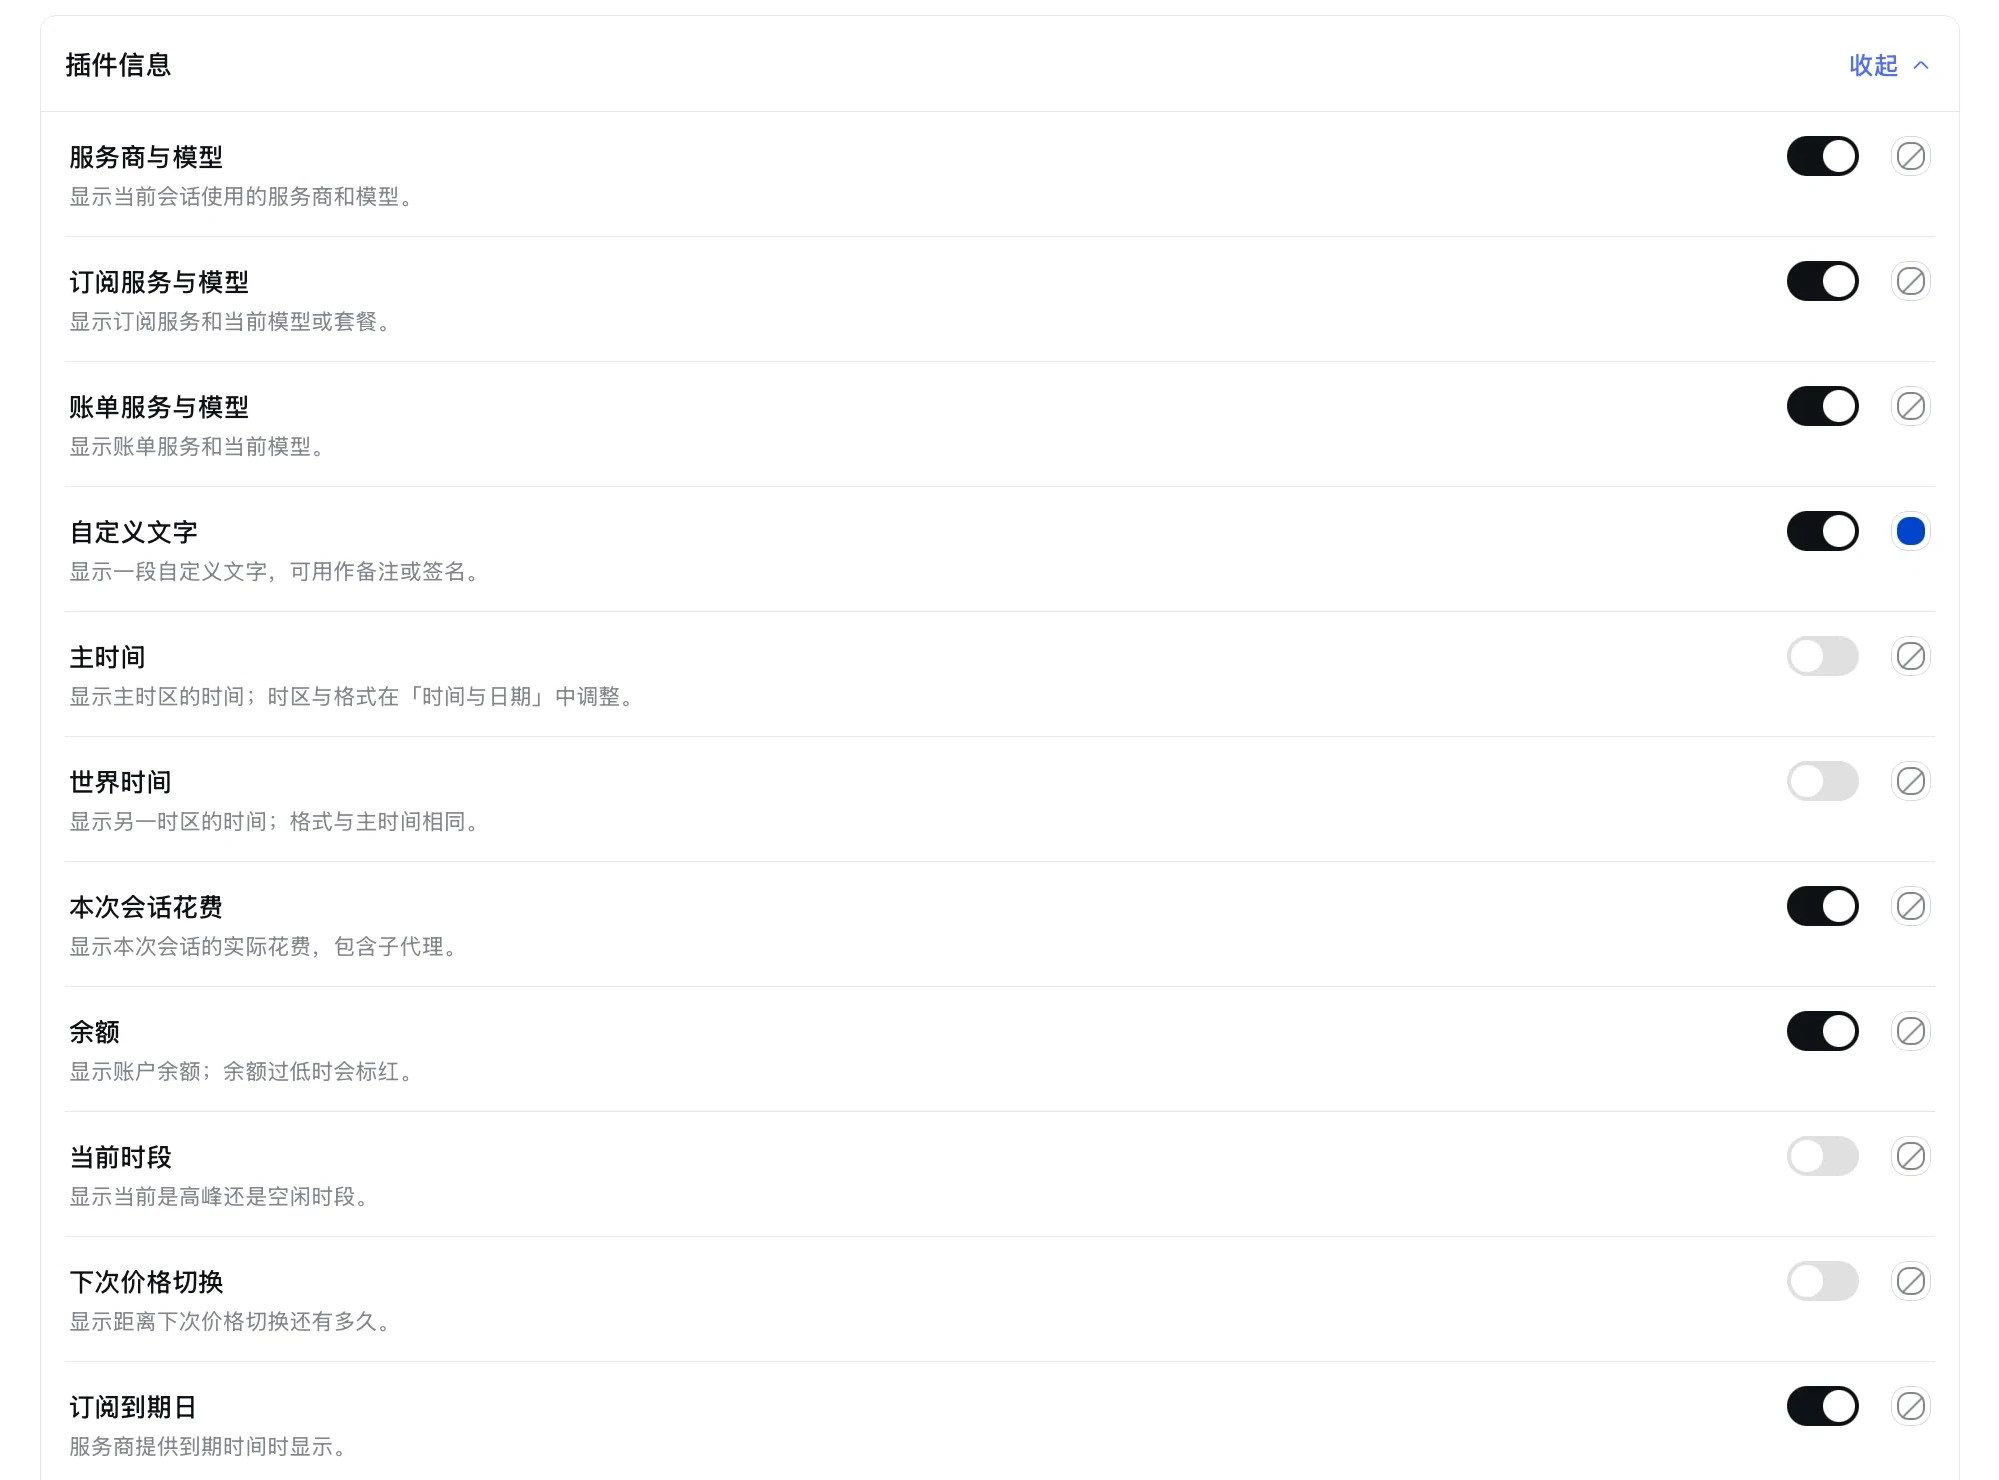
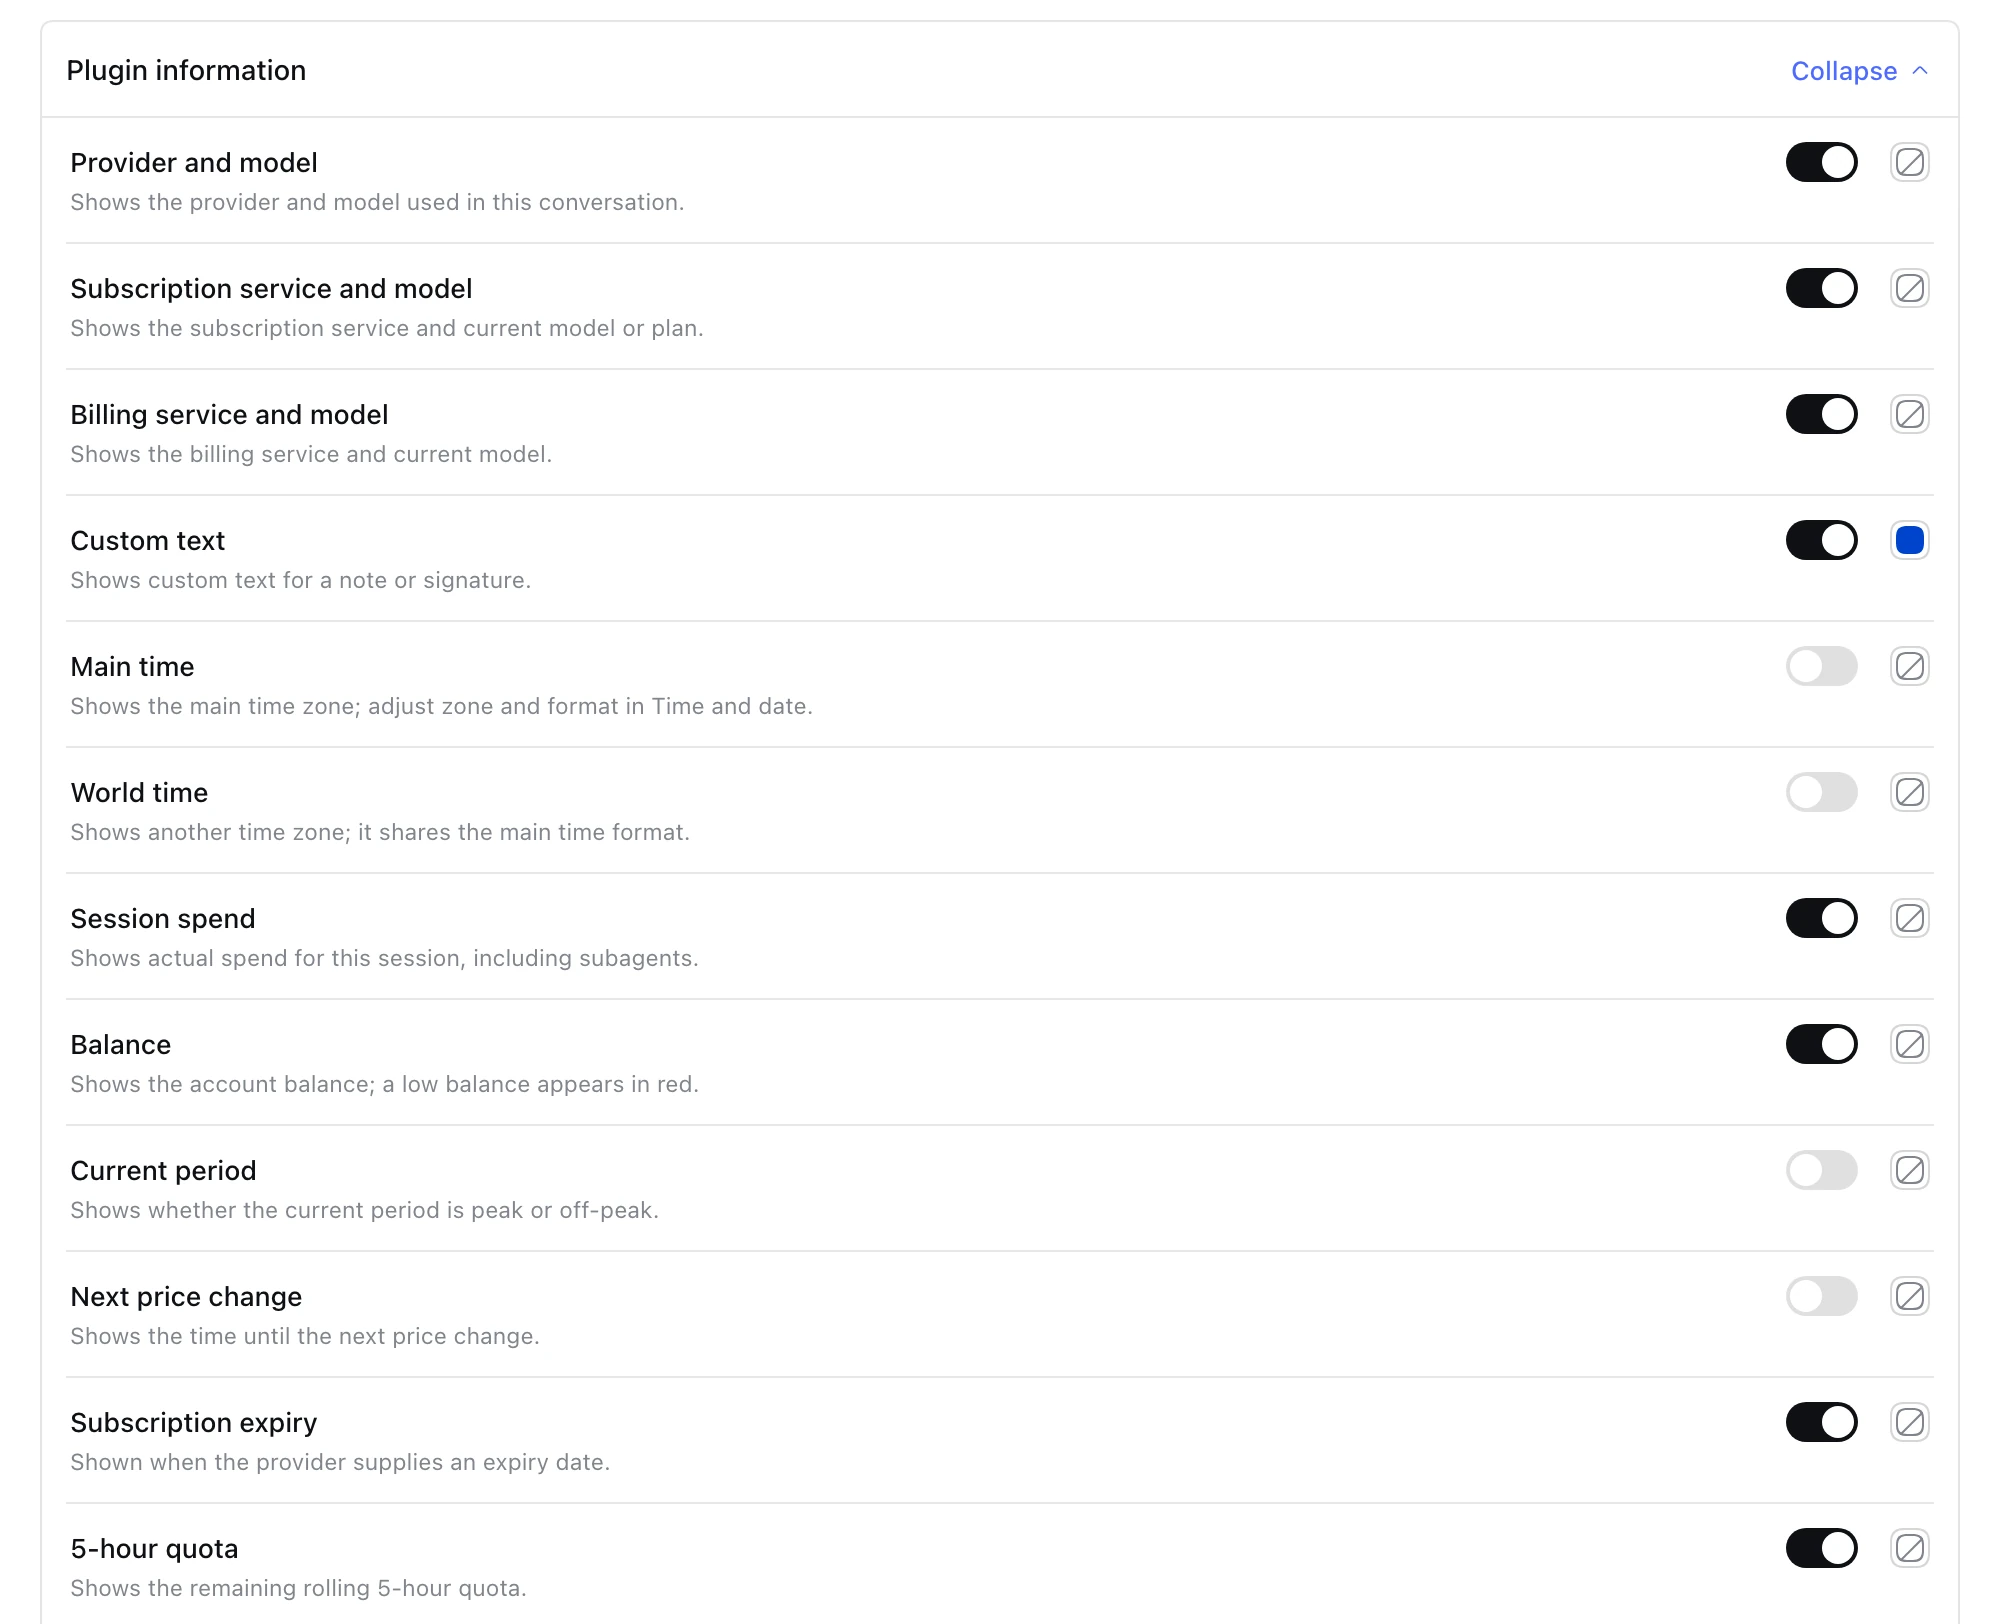
docs: give each README screenshots in its own language
README.md and README.zh-CN.md shared one set of screenshots, so one of the two
always showed the other language's UI. Both READMEs now carry their own.

- assets/*.webp stay the English set (README.md); assets/*.zh-CN.webp are the
  Chinese set (README.zh-CN.md): plugin page, native field group, plugin field
  group and the installed-plugins list
- all eight are fresh captures of the running v1.14.4 page, cropped from
  measured element geometry so the two sets frame identically
- plugins-installed.* also fixes stale content: the old image still showed four
  plugins, including song-search and opencode-session, which are long gone
- MEMORY.md records the capture pipeline, the locale-flip procedure and the
  naming convention

diff --git a/MEMORY.md b/MEMORY.md
@@ -18,13 +18,22 @@
 
 ## 2026-09-23
 
+### README 截图适配中英双语（纯 docs，不触发发版）
+
+- 约定（本次定型）：`assets/` 里**无语言后缀 = 英文界面**（`README.md` 用），**`.zh-CN.webp` = 中文界面**（`README.zh-CN.md` 用）。设置页三张 + 插件列表一张都已双语；`info-bar-full/compact.webp` 仍只有英文版。
+- 采集管线（可复用，只读用户设置）：Playwright（`/Users/songsong/code/brickindex/node_modules/playwright`）+ 本机跑着的 `dsh web`；鉴权 URL 取 `~/.dsh/logs/dhs-web.log` 里**最后一条** `?token=`（token 是机密，不打印、不落盘）。`viewport 1440x1800 / deviceScaleFactor 2 / colorScheme light`；进插件页：侧栏 `button.hHd-Xa_panelRow`（插件|Plugins）→ `button.X_2TxG_cardTitle`（hasText `dsh-bottom-info-bar`）。分组 = `.bib-set-group`（0=原生、1=插件），展开态 `.bib-set-group--expanded`，点标题用 `.bib-set-group-fallback-head`，行 = `.bib-set-row--field`；滚动容器 = `.bib-set-search` 最近的 `overflow-y: auto` 祖先。
+- **切语言的坑**：DSH 语言偏好存在 `~/.dsh/profiles/web/cordis.patch.yml` 的 `- id: locale` 块里，web 端热加载；**新浏览器不会覆盖已存偏好**（navigator 语言只在「无偏好」时生效），所以截英文图必须临时把 `preference: zh` 改成 `en`，截完立刻还原。本次用 `trap ... EXIT` + 备份 sha256 双保险，还原后 sha 一致、`<html lang>` 回 `zh-CN` 均已核验。
+- 四张图的裁剪（clip 由 DOM 实测得出，不写死坐标）：① 页首 = 从页面容器顶到「账单数据」卡顶 −16，宽 = 搜索框宽 +192；② 原生分组 = 分组矩形左右各 +20、上下各 +10；③ 插件分组 = 同 ②，但**只截前 12 行**（切在第 13 行上沿 −3）——该分组实际有 26 行，全截太长；④ 插件列表 = 「已安装/Installed」标题顶 −24 到最后一个插件行底部 +24。
+- 顺带修掉旧图失真：`plugins-installed.webp` 原图还是 4 个插件（含早已删除的 song-search / opencode-session），新图是当前 3 个。
+- 仍未双语：`info-bar-full/compact.webp` 只有英文版——信息栏只在**有使用数据的会话**里渲染（新会话/首页该 slot 根本不渲染，实测 DOM 里没有任何 `.bib-*` 节点），要截就得打开用户真实会话，故未动。
+
 ### README 设置页展示图换成 v1.14.4 新版（纯 docs，不触发发版）
 
 - 起因：用户给出 3 张 v1.14.4 设置页截图（中文界面）要求替换展示图。旧的 `assets/plugin-page.webp` / `field-config.webp` 仍是 v1.14.3 的「Visible content + Billing data」旧结构，与折叠分组改版已不符。
 - 做法：先用 `magick` 灰度阈值逐行/逐列扫描，按**卡片边框线的真实像素坐标**裁切（不靠肉眼估），三张图统一「卡片左右各留 40px」→ 1999px 宽、`-quality 90` webp：`plugin-page.webp`（页头 + 信息栏 + 搜索 + 两个折叠分组 + 恢复默认 + 自定义文字）、`field-config.webp`（原生信息展开）、新增 `field-config-plugin.webp`（插件信息展开）。文案同步改成新版结构。
 - 可复用坐标（源图宽 2302/2292/2250，卡片左右边界 194/2113 与 190/2109，三张同缩放）：s1 `-crop 1999x1420+154+0`、s2 `-crop 1999x890+154+200`、s3 `-crop 1999x1480+150+0`。
 - 文案坑：`已启用 N 项 / N found` 是 `.bib-set-count`（`clip: rect(0,0,0,0)`）——**只给读屏的隐藏状态文本，画面里看不到**，写截图说明时不要提「显示已开启数量」（旧 README 就是这么说错的）。
-- 已知取舍：新图是中文界面，而英文 `README.md` 其余截图是英文界面 → 英文 README 出现中英混排；若用户后续给英文界面截图，按同一坐标替换即可。
+- 已知取舍（同日已解决）：新图当时是中文界面，英文 `README.md` 因此中英混排 → 见上方「README 截图适配中英双语」：无后缀 = 英文界面、`.zh-CN.webp` = 中文界面。
 
 ### CodeQL「不完整 URL 子串判断」两条 High 告警修复（PR #120，纯 tests 改动不触发发版）
 

diff --git a/README.zh-CN.md b/README.zh-CN.md
@@ -45,7 +45,7 @@ dsh plugin --profile web add dsh-bottom-info-bar
 
 安装就到这里：配好服务商的 API Key、重启，完事。重启后插件会出现在**插件**页并处于启用状态：
 
-![插件列表：bottom-info-bar 已安装并启用](assets/plugins-installed.webp)
+![插件列表：bottom-info-bar 已安装并启用](assets/plugins-installed.zh-CN.webp)
 
 <details>
 <summary>其它安装方式（以及该怎么选）</summary>
@@ -78,15 +78,15 @@ cd dsh-bottom-info-bar
 
 配置都在**插件页**（插件 → bottom-info-bar）里，不在 DSH 的全局设置里：字段开关、配色、自定义文字、账单数据都在这里，改完自动保存。
 
-![插件页：信息栏设置——搜索、两个字段分组、恢复默认、自定义文字与账单数据](assets/plugin-page.webp)
+![插件页：信息栏设置——搜索、两个字段分组、恢复默认、自定义文字与账单数据](assets/plugin-page.zh-CN.webp)
 
 <sub>**信息栏**里有搜索框、两个字段分组、**恢复默认**与**自定义文字**；在搜索框输入会自动展开两个分组。**账单数据**可导出 CSV/JSON 或清除记录。</sub>
 
-![原生信息展开：每个字段一个开关与一个颜色](assets/field-config.webp)
+![原生信息展开：每个字段一个开关与一个颜色](assets/field-config.zh-CN.webp)
 
 <sub>**原生信息**——DSH 原生统计栏本来就有的六个字段。每行都有自己的开关与颜色，默认配色跟随 DSH。</sub>
 
-![插件信息展开：信息栏自己新增的字段](assets/field-config-plugin.webp)
+![插件信息展开：信息栏自己新增的字段](assets/field-config-plugin.zh-CN.webp)
 
 <sub>**插件信息**——信息栏新增的全部内容：服务商与模型、订阅、花费、余额、高峰/空闲价格与额度。关掉哪个字段，信息栏就不再显示它。</sub>
 
